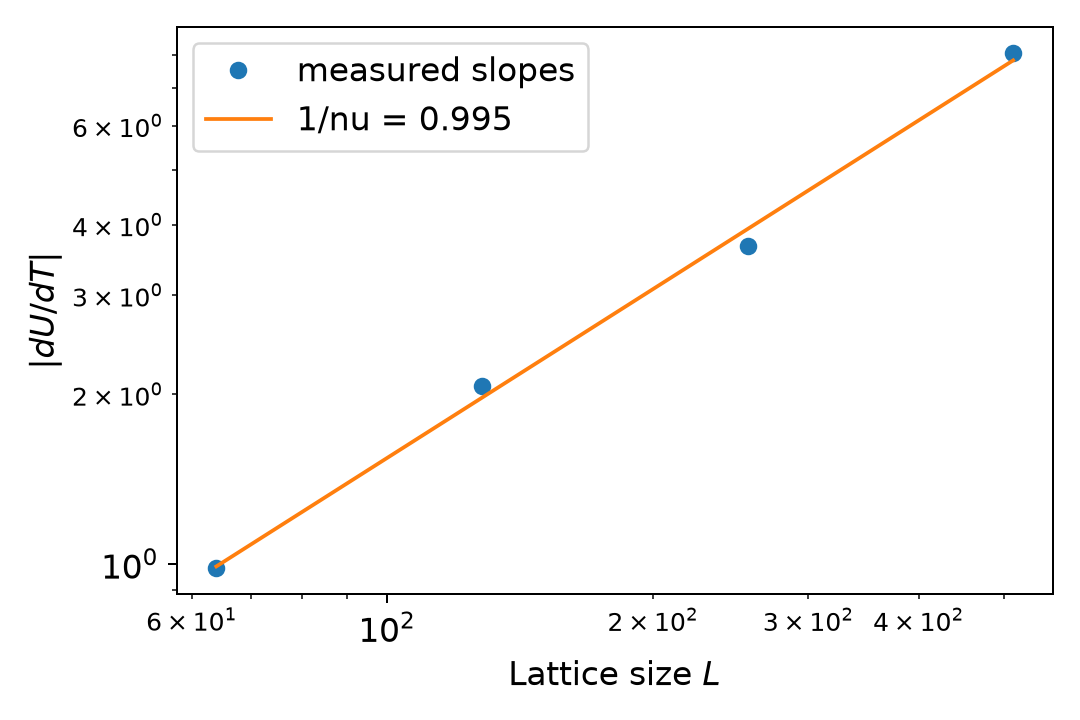
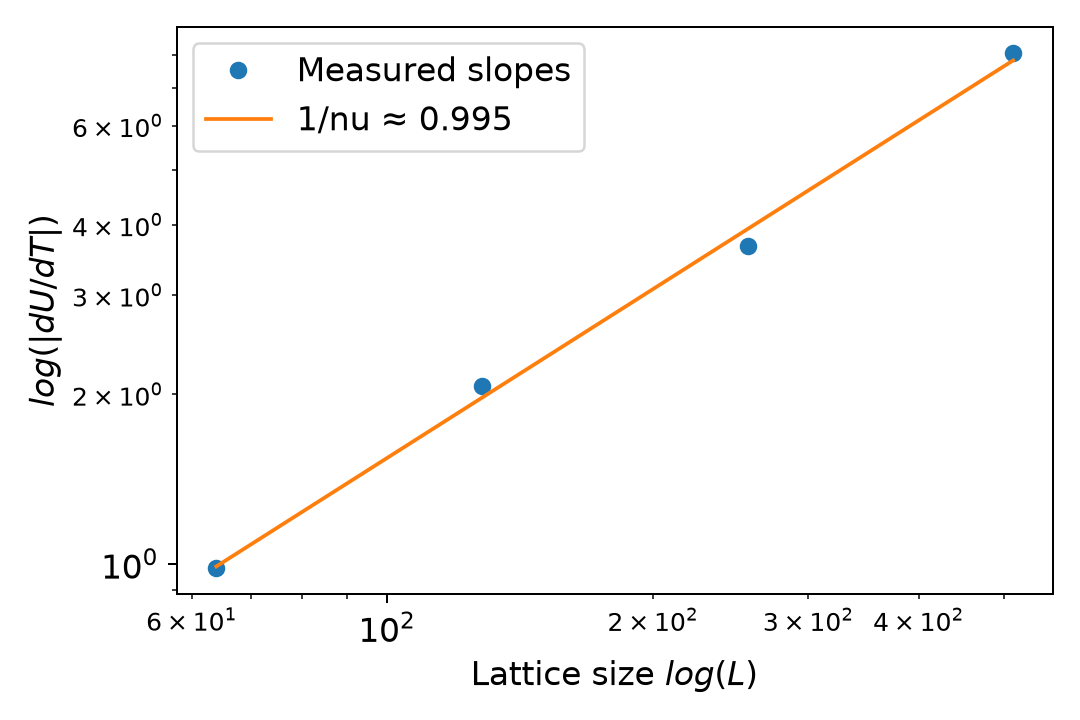
kleine update graphs

diff --git a/binder_cumulant.py b/binder_cumulant.py
@@ -195,8 +195,8 @@ for L in L_values:  #teken 1 curve voor iedere grootte
     ax.plot(T_values, curves[L], "o-", ms=3, label=f"L = {L}") #teken ook de lijnen tussen punten om snijpunten te laten zien
 
 ax.set_title("Binder cumulants", fontsize='15')
-ax.set_xlabel("Temperature $\it{T}$", fontsize='13')
-ax.set_ylabel("Binder cumulant $\it{U}$", fontsize ='13')
+ax.set_xlabel(r"Temperature $T$", fontsize='13')
+ax.set_ylabel(r"Binder cumulant $U$", fontsize ='13')
 plt.xticks(fontsize = '13')
 plt.yticks(fontsize = '13')
 ax.legend(fontsize='13')
@@ -244,10 +244,10 @@ nu_error = np.std(nu_values, ddof=1) / math.sqrt(N_RUNS)
 print(f"nu from Binder slopes: {nu:.4f} ± {nu_error:.4f}")
 
 fig, ax = plt.subplots(figsize=(6, 4))  #tweede plot voor de 'nu' fits
-ax.loglog(L_values, mean_slopes, "o", label="measured slopes")  #meetpunten in log-log ruimte
-ax.loglog(L_values, np.exp(fit[1]) * np.asarray(L_values) ** fit[0], "-", label=f"1/nu = {fit[0]:.3f}")  # fit lijn
-ax.set_xlabel("Lattice size $\it{L}$", fontsize='13')
-ax.set_ylabel(r"$|dU/dT|$", fontsize ='13')
+ax.loglog(L_values, mean_slopes, "o", label="Measured slopes")  #meetpunten in log-log ruimte
+ax.loglog(L_values, np.exp(fit[1]) * np.asarray(L_values) ** fit[0], "-", label=f"1/nu ≈ {fit[0]:.3f}")  # fit lijn
+ax.set_xlabel(r"Lattice size $log(L)$", fontsize='13')
+ax.set_ylabel(r"$log(|dU/dT|)$", fontsize ='13')
 plt.xticks(fontsize = '13')
 plt.yticks(fontsize = '13')
 ax.legend(fontsize = '13')
